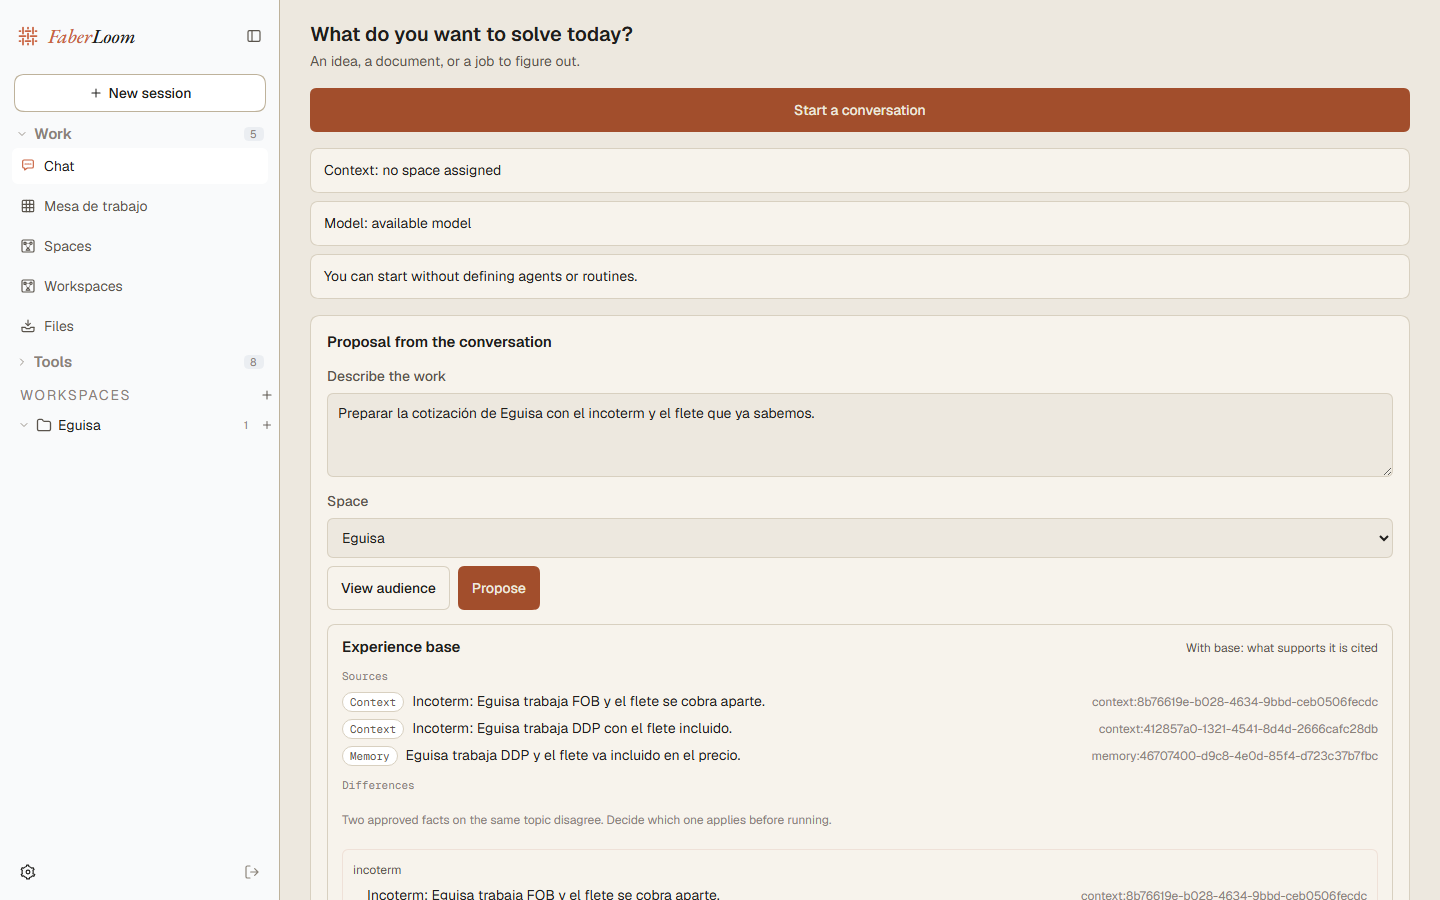
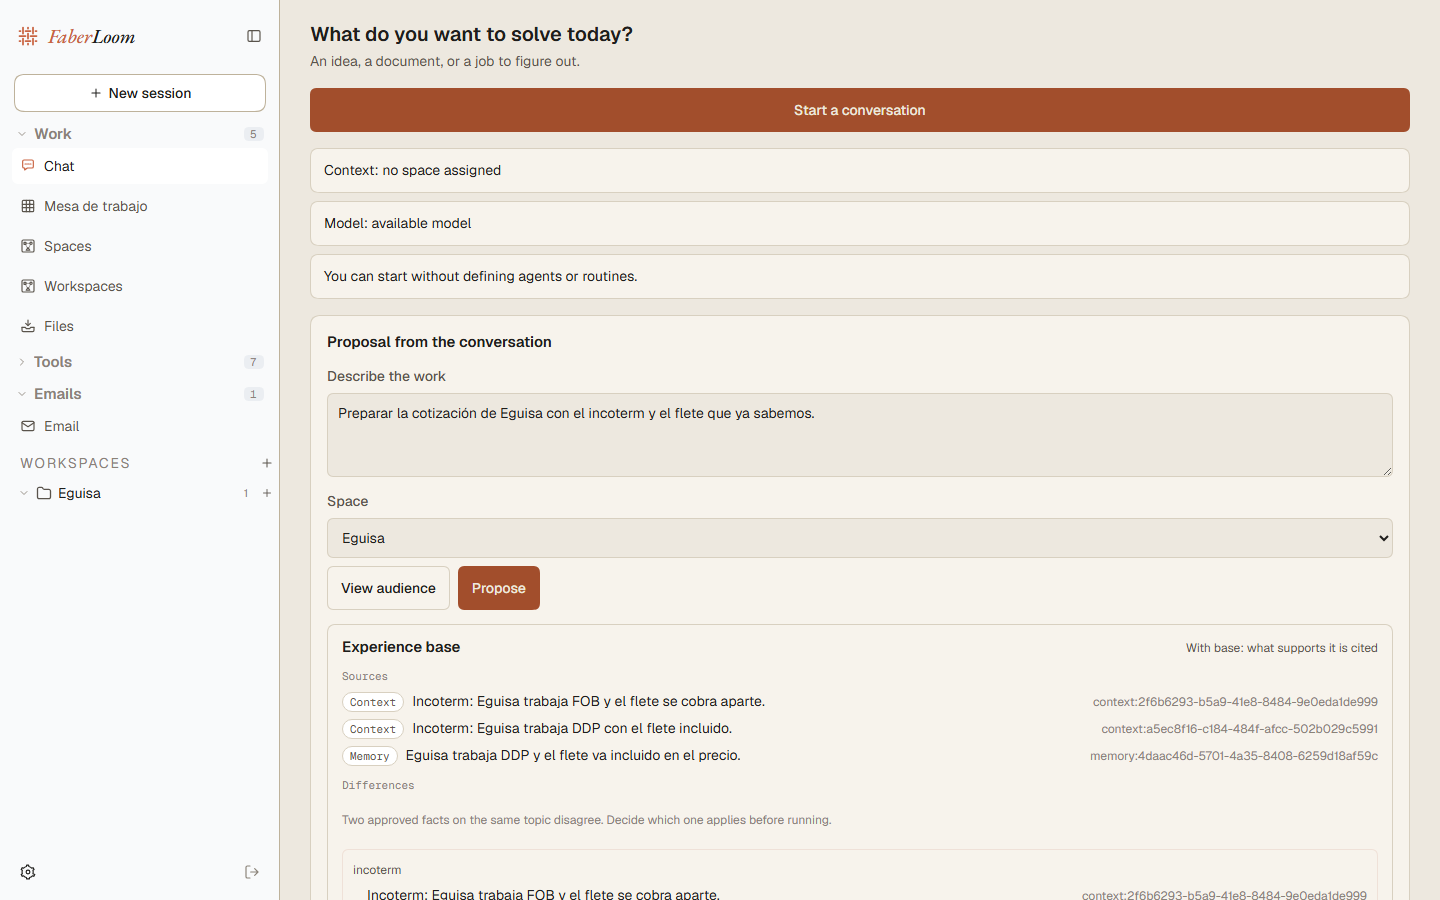
feat(faberloom): give the mail engine its own Emails group in the sidebar
The Correo panel sat under Herramientas next to routines, flows and agents. It
now owns a third group, Emails, listed after Tools, and carries the mail row
alone: the inbox, the drafts awaiting approval and the account connections are
the product's mail engine, not harness tooling.

The group label ships in all three dictionaries. A client spec pins the row's
group and asserts no second row claims it; the panel e2e expands Emails, then
Tools, and checks the mail row does not appear under both.

Evidence: client 281; panel e2e 4 (replay); screenshot e1/visual/sidebar-emails.png.

Changed region(s): [[0.75, 0.7778, 0.9688, 0.8711], [0.75, 0.9644, 0.9688, 1.0], [0.0, 0.4356, 0.0938, 0.56]]

diff --git a/packages/client/ui-faberloom/src/client/panels.tsx b/packages/client/ui-faberloom/src/client/panels.tsx
@@ -9137,5 +9137,7 @@ export const FABERLOOM_SECTIONS: readonly FaberloomSection[] = [
   { id: 'faberloom-context' as MainPanelId, order: 62, labelKey: 'nav.context', modeKey: 'nav.mode.learn', groupKey: 'nav.group.tools', Icon: panelIcon(FlIconKnowledgeIndex), Page: contextScreen() },
   { id: 'faberloom-approvals' as MainPanelId, order: 64, labelKey: 'nav.approvals', modeKey: 'nav.mode.learn', groupKey: 'nav.group.tools', Icon: panelIcon(FlIconCriterio), Page: approvalsScreen() },
   { id: 'faberloom-connections' as MainPanelId, order: 80, labelKey: 'nav.connections', modeKey: 'nav.mode.admin', groupKey: 'nav.group.tools', Icon: panelIcon(FlIconExternal), Page: connectionsScreen() },
-  { id: 'faberloom-email' as MainPanelId, order: 75, labelKey: 'nav.email', modeKey: 'nav.mode.operate', groupKey: 'nav.group.tools', Icon: panelIcon(FlIconMail), Page: emailScreen() },
+  // The mail engine (DaMail) owns its own group: the inbox, the drafts awaiting
+  // approval and the account connections are not harness tooling.
+  { id: 'faberloom-email' as MainPanelId, order: 75, labelKey: 'nav.email', modeKey: 'nav.mode.operate', groupKey: 'nav.group.emails', Icon: panelIcon(FlIconMail), Page: emailScreen() },
 ]

diff --git a/apps/web/tests/experience-panel.e2e.ts b/apps/web/tests/experience-panel.e2e.ts
@@ -78,6 +78,23 @@ describe('web e2e: the Chat panel explains what grounds a proposal', () => {
     await scaffold?.close()
   })
 
+  it('lists the mail engine in its own Emails group, apart from Tools', async () => {
+    const emails = page.getByRole('button', { name: /^Emails/u })
+    await emails.click()
+    await page.getByRole('button', { name: /^Email$/u }).first().waitFor({ timeout: 10_000 })
+    await page.waitForTimeout(500)
+    await page.screenshot({ path: `${SHOTS}sidebar-emails.png` })
+    // Collapsing Emails and opening Tools must not reveal the mail row again:
+    // the row lives in one group only.
+    await emails.click()
+    await page.getByRole('button', { name: /^Tools/u }).first().click()
+    await page.waitForTimeout(400)
+    expect(await page.getByRole('button', { name: /^Email$/u }).count()).toBe(0)
+    await page.getByRole('button', { name: /^Tools/u }).first().click()
+    await emails.click()
+    await page.getByRole('button', { name: /^Email$/u }).first().waitFor({ timeout: 10_000 })
+  })
+
   it('shows no proposal when the Space has no approved base', async () => {
     await propose()
     await page.getByText('No base: nothing is proposed').waitFor()

diff --git a/packages/client/ui-faberloom/tests/registration.client.spec.tsx b/packages/client/ui-faberloom/tests/registration.client.spec.tsx
@@ -639,6 +639,15 @@ describe('faberloom surface', () => {
     expect(resolveSectionNav(board, key => faberloomZh[key], null)).toEqual({ mode: '操作', group: '工作', badge: '' })
   })
 
+  it('keeps the mail panel in its own Emails group, apart from the tooling rows', () => {
+    const mail = FABERLOOM_SECTIONS.find(section => section.id === 'faberloom-email')
+    if (mail === undefined) throw new Error('the mail section is missing')
+    const t = (key: FaberloomKey): string => faberloomEn[key]
+    expect(resolveSectionNav(mail, t, null)).toEqual({ mode: 'Operate', group: 'Emails', badge: '' })
+    // Nothing else may claim the group: it holds the mail engine's own screens.
+    expect(FABERLOOM_SECTIONS.filter(section => section.groupKey === 'nav.group.emails')).toHaveLength(1)
+  })
+
   it('pans the table inside its card and keeps the inspector reachable below the split', async () => {
     const { runtime, view } = await bench()
     act(() => { runtime.panelInfo.set({ activePanelId: SPACES }) })

diff --git a/packages/client/ui-faberloom/src/client/locales.ts b/packages/client/ui-faberloom/src/client/locales.ts
@@ -44,6 +44,7 @@ export const es = {
   'nav.group.knowledge': 'Conocimiento',
   'nav.group.setup': 'Configuración',
   'nav.group.tools': 'Herramientas',
+  'nav.group.emails': 'Emails',
   'sidebar.newSession': 'Nueva sesión',
   'sidebar.toggle.collapse': 'Contraer',
   'sidebar.toggle.open': 'Expandir',
@@ -1391,6 +1392,7 @@ export const en: Record<FaberloomKey, string> = {
   'nav.group.knowledge': 'Knowledge',
   'nav.group.setup': 'Setup',
   'nav.group.tools': 'Tools',
+  'nav.group.emails': 'Emails',
   'sidebar.newSession': 'New session',
   'sidebar.toggle.collapse': 'Collapse',
   'sidebar.toggle.open': 'Expand',
@@ -2731,6 +2733,7 @@ export const zh: Record<FaberloomKey, string> = {
   'nav.group.knowledge': '知识',
   'nav.group.setup': '配置',
   'nav.group.tools': '工具',
+  'nav.group.emails': 'Emails',
   'sidebar.newSession': '新建会话',
   'sidebar.toggle.collapse': '收起',
   'sidebar.toggle.open': '展开',
